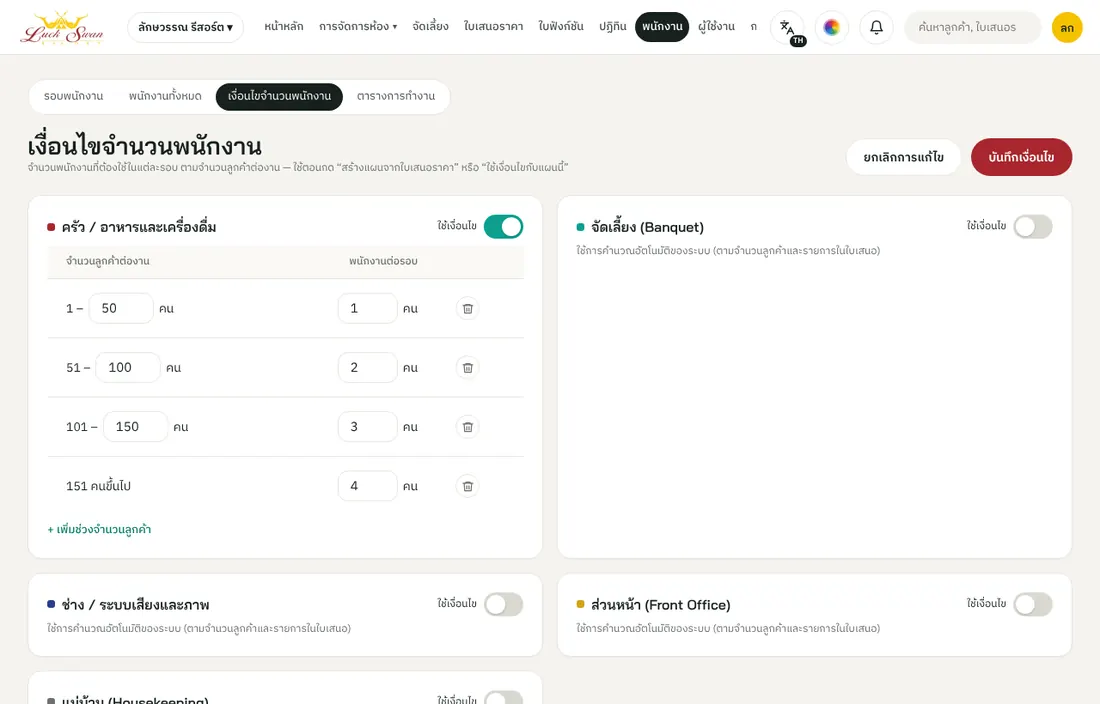
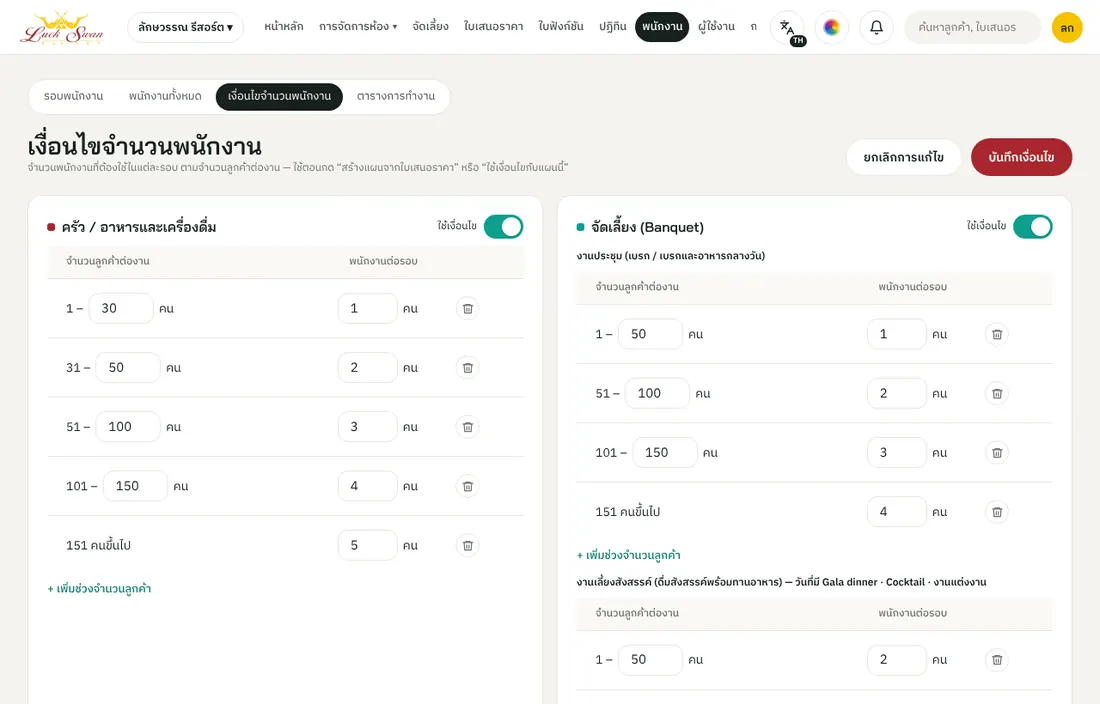
Manual 1.7 (Thai): function-sheet status, event room, automatic staffing
- Function sheets:
  - List badges show the sheet's state (รออนุมัติ · ถูกตีกลับ ·
    อนุมัติแล้ว), and the third tab is ยังไม่อนุมัติ.
  - The ห้องจัดงาน pop-up changes the room and layout; tips cover price,
    approval and schedule text.
- Staff shifts: the auto or by-hand pop-up after creating a plan, the
  จัดคนอัตโนมัติ button, staff of the event's property only, and what
  the automatic choice skips.
- Staffing rules: the owner's manpower tables (restaurant, banquet
  meeting and party, housekeeping by rooms), and that the numbers are
  per shift.
- Thai screenshots retaken: beo, beo-list (ทั้งหมด tab), staff-shifts,
  staff-assign, staff-rules. New: beo-venue, staff-auto (shots.js
  updated).
- English and Myanmar stay at 1.5.

Claude-Session: https://claude.ai/code/session_015bPeSMdisNsHViU4e5orFu

diff --git a/docs/manual/content.th.js b/docs/manual/content.th.js
@@ -14,7 +14,7 @@ window.MANUAL.th = {
     title: 'คู่มือการใช้งานระบบงานขาย',
     subtitle: 'ลักษวรรณ รีสอร์ท — ใบเสนอราคา ห้องประชุม ห้องพัก จัดเลี้ยง ใบฟังก์ชัน พนักงาน ตารางการทำงาน ใบลา และงานที่มอบหมาย',
     url: 'https://luckswan-sales.it-luckswan.workers.dev',
-    version: '1.6', updated: '14 พ.ย. 2569',
+    version: '1.7', updated: '17 พ.ย. 2569',
     intro: 'ระบบงานขายเป็นเว็บแอปที่ใช้ได้ทั้งคอมพิวเตอร์ iPad และมือถือ ทุกคนเห็นข้อมูลชุดเดียวกันแบบเรียลไทม์ เมนูที่แต่ละคนเห็นขึ้นกับบทบาทและสิทธิ์ที่ผู้ดูแลระบบกำหนดให้ คู่มือนี้อธิบายทุกหมวดตั้งแต่เข้าสู่ระบบจนถึงงานของแต่ละแผนก พร้อมรูปหน้าจอจริงประกอบทุกขั้นตอน'
   },
   groups: [
@@ -192,17 +192,18 @@ window.MANUAL.th = {
       id: 'beo', group: 'event', icon: 'list', title: 'ใบฟังก์ชัน (BEO)', who: 'ฝ่ายขาย · ผู้จัดการ · หัวหน้าแผนก · บัญชี (ดู)',
       intro: 'เมนู ใบฟังก์ชัน เป็นใบสั่งงานให้ทุกแผนก สร้างจากใบเสนอราคาที่อนุมัติจัดงานแล้ว แต่ละแผนกกดรับทราบได้ในระบบ',
       steps: [
-        'รายการด้านซ้ายแบ่งเป็น ใกล้ถึง · ทั้งหมด · ร่าง ป้ายบอกสถานะ เช่น “ครบทุกแผนก” “รอรับทราบ 2”',
-        'กด “+ สร้างจากใบเสนอ” แล้วเลือกใบเสนอราคา ระบบดึงห้อง อาหาร จำนวนคนให้อัตโนมัติ — รายการแสดงเฉพาะใบที่ผู้ดูแลระบบอนุมัติแล้ว และลูกค้ายืนยันการจองแล้ว (หรือกดปุ่ม “ใบฟังก์ชัน” ในกรอบสถานะของใบเสนอราคา)',
-        'ส่วนหัวแสดง วันงาน จำนวนยืนยัน (+5% สำรอง) ห้อง ผู้ติดต่อ และฝ่ายขาย',
+        'รายการด้านซ้ายแบ่งเป็น ใกล้ถึง · ทั้งหมด · ยังไม่อนุมัติ — ป้ายบอกสถานะปัจจุบันของใบ: “รออนุมัติ” (สีส้ม · ใบที่แก้ไขขึ้น “แก้ไข · รออนุมัติ”) · “ถูกตีกลับ” (สีแดง) · “อนุมัติแล้ว” (สีเขียว) · ใต้ชื่องานแสดงชื่อห้องจัดงานและจำนวนท่าน',
+        'กด “+ สร้างจากใบเสนอ” แล้วเลือกใบเสนอราคา ระบบดึงห้อง อาหาร จำนวนคนให้อัตโนมัติ — รายการแสดงเฉพาะใบเสนอราคาที่ “อนุมัติจัดงาน” แล้ว (หรือกดปุ่ม “ใบฟังก์ชัน” ในกรอบสถานะของใบเสนอราคา)',
+        'ส่วนหัวแสดง วันงาน จำนวนยืนยัน (+5% สำรอง) ห้องจัดงาน ผู้ติดต่อ และฝ่ายขาย',
+        'เปลี่ยนห้องจัดงาน: กดช่อง “ห้องจัดงาน ✏” › ป๊อปอัพให้เลือกห้อง (บอกจำนวนคนที่รองรับ) และรูปแบบการจัดห้อง Theatre · Classroom · U-shape · Banquet · Cocktail › “บันทึก” — มีกรอบแดงเตือนถ้าจำนวนท่านเกินความจุ · หัวใบขึ้น “(เปลี่ยนจากใบเสนอราคา)” การ์ดในรายการ รายละเอียดฟังก์ชัน และออกแบบผังงานเปลี่ยนตาม · กด “ใช้ตามใบเสนอราคา” เพื่อกลับไปห้องเดิม',
         'กรอบ “ประเภทผู้เข้าร่วมงาน และ ลักษณะงาน”: กดที่หัวกิ่งเพื่อกาง แล้วกดเลือกได้หลายข้อ เช่น เด็กนักเรียนมัธยม · อาจารย์ / Team building · คลาสสอน — หัวกิ่งแสดงสิ่งที่เลือก · ✏ แก้ไข / เพิ่ม / ลบตัวเลือกภายในกิ่ง (ผู้ดูแลระบบ ผู้จัดการฝ่ายขาย พนักงานขาย) บทบาทอื่นเห็นอย่างเดียว',
         'กำหนดการรายวัน: เวลา รายละเอียด สถานที่ และแผนกที่รับผิดชอบ (สลับ “วันที่ 1 / วันที่ 2”) — นำเข้าจากไฟล์ Excel ได้',
         'การ์ดแต่ละแผนก (ครัว จัดเลี้ยง ช่าง ส่วนหน้า แม่บ้าน บัญชี) แสดงรายการงานและสถานะ “รับทราบแล้ว / รอรับทราบ” กด “แก้ไข” เพื่อเพิ่มงานของแผนก — รายการในการ์ดกับช่องของแผนกนั้นใน “รายละเอียดฟังก์ชัน” เป็นข้อมูลชุดเดียวกัน แก้ที่ไหนก็ขึ้นทั้งสองที่',
         'ทุกครั้งที่แก้หลังส่งแล้ว ระบบนับ “แก้ไขครั้งที่ …” และส่งให้ผู้ดูแลระบบอนุมัติก่อนส่งแผนก',
         'ปุ่มด้านบน: รายละเอียดฟังก์ชัน · ใบสรุปสำหรับฝ่ายขาย · ออกแบบผังงาน (ผู้ดูแลระบบ ฝ่ายขาย แผนก F&B และแผนกจัดเลี้ยง) · แก้ไขปรับปรุง (ผู้ดูแลระบบ) · พิมพ์ / PDF'
       ],
-      shots: [{ img: 'beo', cap: 'ใบฟังก์ชัน: กำหนดการรายวันและการ์ดแต่ละแผนก' }, { img: 'beo-tags', cap: 'ประเภทผู้เข้าร่วมงาน และ ลักษณะงาน' }, { img: 'beo-list', cap: 'รายการใบฟังก์ชันพร้อมสถานะการรับทราบ' }],
-      tips: ['ใบเสนอราคาที่ยังไม่อนุมัติ หรือลูกค้ายังไม่ยืนยัน ออกใบฟังก์ชันไม่ได้ ระบบจะแจ้ง “ต้องให้ผู้ดูแลระบบอนุมัติใบเสนอราคาก่อน” หรือ “ออกใบฟังก์ชันได้หลังลูกค้ายืนยันการจอง” · ใบฟังก์ชันที่มีอยู่แล้วแก้ไขได้ตามปกติ', 'หัวหน้าแผนกควรกด “รับทราบ” ทุกครั้งที่มีใบใหม่หรือมีการแก้ไข', 'การเลือกประเภทผู้เข้าร่วมงานและลักษณะงานไม่ทำให้ใบต้องขออนุมัติการแก้ไขใหม่ · รายการตัวเลือกใช้ร่วมกันทุกใบ · สิ่งที่เลือกไปแสดงในช่อง “ประเภทงาน” ของรายละเอียดฟังก์ชัน']
+      shots: [{ img: 'beo', cap: 'ใบฟังก์ชัน: กำหนดการรายวันและการ์ดแต่ละแผนก' }, { img: 'beo-venue', cap: 'เปลี่ยนห้องจัดงานและรูปแบบการจัดห้อง' }, { img: 'beo-tags', cap: 'ประเภทผู้เข้าร่วมงาน และ ลักษณะงาน' }, { img: 'beo-list', cap: 'รายการใบฟังก์ชันพร้อมสถานะของแต่ละใบ' }],
+      tips: ['ใบเสนอราคาที่ยังไม่ถึงขั้น “อนุมัติจัดงาน” ออกใบฟังก์ชันไม่ได้ · ใบฟังก์ชันที่มีอยู่แล้วแก้ไขได้ตามปกติ', 'เปลี่ยนห้องจัดงานในใบฟังก์ชัน ราคาในใบเสนอราคาไม่เปลี่ยน · ถ้าพนักงานขายเปลี่ยน ใบต้องให้ผู้ดูแลระบบอนุมัติการแก้ไข · ช่องสถานที่ในกำหนดการที่พิมพ์ไว้แล้วไม่เปลี่ยนตาม แก้ในตารางเอง', 'หัวหน้าแผนกควรกด “รับทราบ” ทุกครั้งที่มีใบใหม่หรือมีการแก้ไข', 'การเลือกประเภทผู้เข้าร่วมงานและลักษณะงานไม่ทำให้ใบต้องขออนุมัติการแก้ไขใหม่ · รายการตัวเลือกใช้ร่วมกันทุกใบ · สิ่งที่เลือกไปแสดงในช่อง “ประเภทงาน” ของรายละเอียดฟังก์ชัน']
     },
     {
       id: 'plan', group: 'event', icon: 'grid', title: 'ออกแบบผังงานและแก้ไขปรับปรุงห้อง', who: 'ผู้ดูแลระบบ · ผู้จัดการฝ่ายขาย · พนักงานขาย · แผนก F&B · แผนกจัดเลี้ยง (หัวหน้าและพนักงาน)',
@@ -259,15 +260,17 @@ window.MANUAL.th = {
       intro: 'เมนู พนักงาน › รอบพนักงาน จัดคนเข้ารอบของแต่ละงาน ระบบคำนวณจำนวนคนที่ต้องใช้จากจำนวนลูกค้า',
       steps: [
         'เลือกงานด้านบน (กดชื่อใบเสนอราคา ▾) และเลือกวัน',
-        'ถ้ายังไม่มีแผน กด “สร้างแผนจากใบเสนอราคา” — ระบบสร้างรอบเฉพาะแผนกที่เปิด “ใช้เงื่อนไข” ในเงื่อนไขจำนวนพนักงาน จำนวนคนต่อรอบตามจำนวนลูกค้า (ก่อนกดจะเห็นสรุป เช่น ครัว/F&B 1 คน/รอบ) — “ใช้เงื่อนไขกับแผนนี้” คำนวณจำนวนของแผนที่มีอยู่ใหม่',
+        'ถ้ายังไม่มีแผน กด “สร้างแผนจากใบเสนอราคา” — ระบบสร้างรอบเฉพาะแผนกที่เปิด “ใช้เงื่อนไข” ในเงื่อนไขจำนวนพนักงาน จำนวนคนต่อรอบตามเงื่อนไข (ก่อนกดจะเห็นสรุป เช่น ครัว/F&B 4 คน/รอบ) — “ใช้เงื่อนไขกับแผนนี้” คำนวณจำนวนของแผนที่มีอยู่ใหม่',
+        'หลังสร้างแผน จะมีป๊อปอัพกลางจอถาม: “จัดคนอัตโนมัติ” = ระบบเลือกพนักงานของแต่ละแผนก เฉพาะโรงแรมของงานนั้น ลงทุกรอบให้ครบจำนวน · “จัดเอง” = รอบขึ้นสีแดง “ขาด … คน” ให้กดรอบหรือปุ่ม “มอบหมาย” เพื่อเลือกคนเอง',
+        'ปุ่ม “จัดคนอัตโนมัติ” (สีเขียว ด้านบน) กดเติมคนที่ยังขาดได้ทุกเมื่อ — คนที่เลือกไว้แล้วยังอยู่ ระบบเติมเฉพาะที่ขาด และแจ้งว่ายังขาดกี่คน',
         'แผนกที่ไม่ได้ตั้งเงื่อนไข เพิ่มรอบเองได้ที่ปุ่ม “+ เพิ่มรอบ”',
         'ดูกล่องสรุป: พนักงานที่ต้องใช้ · จัดรอบแล้ว · ขาดคน · ต่อรอบ',
-        'ไทม์ไลน์แต่ละแผนก: กดรอบ (รอบเช้า/รอบบ่าย) เพื่อกำหนดจำนวนที่ต้องใช้ เวลา และติ๊กเลือกพนักงาน แล้วกด “บันทึก”',
+        'ไทม์ไลน์แต่ละแผนก: กดรอบ (รอบเช้า/รอบบ่าย) เพื่อกำหนดจำนวนที่ต้องใช้ เวลา และติ๊กเลือกพนักงาน (แสดงเฉพาะพนักงานของแผนกนั้นในโรงแรมของงาน) แล้วกด “บันทึก”',
         'ต่อรอบ (QT): เลือก +1/+2/+3 ชม. หรือกำหนดเอง ใส่เหตุผล เลือกพนักงาน แล้วส่งขออนุมัติ',
         'ผู้มีสิทธิ์อนุมัติ กด อนุมัติ / ตีกลับ คำขอต่อรอบ'
       ],
-      shots: [{ img: 'staff-shifts', cap: 'รอบพนักงาน: สรุป ไทม์ไลน์ และต่อรอบ' }, { img: 'staff-assign', cap: 'จัดพนักงานเข้ารอบ' }],
-      tips: ['ชั่วโมงสะสมต่อสัปดาห์แสดงข้างชื่อ (เช่น 40 / 48 ชม.) ช่วยเลี่ยงการจัดเกินเวลา']
+      shots: [{ img: 'staff-auto', cap: 'หลังสร้างแผน: เลือกจัดคนอัตโนมัติ หรือจัดเอง' }, { img: 'staff-shifts', cap: 'รอบพนักงาน: สรุป ไทม์ไลน์ และต่อรอบ' }, { img: 'staff-assign', cap: 'จัดพนักงานเข้ารอบ' }],
+      tips: ['จัดคนอัตโนมัติไม่เลือก: คนที่ลงวันหยุดวันนั้นในตารางการทำงาน (DAY OFF · EXTRA · VC · WOP · CDO) · คนที่ติดรอบอื่นในวันเดียวกัน (รวมงานอื่น) · คนที่จะเกิน 48 ชม./สัปดาห์ — และเลือกคนที่ชั่วโมงสะสมน้อยก่อน', 'ระบบเลือกคนจาก “พนักงานทั้งหมด” — ตั้งสถานที่และแผนกของพนักงานแต่ละคนให้ถูก', 'ชั่วโมงสะสมต่อสัปดาห์แสดงข้างชื่อ (เช่น 40 / 48 ชม.) ช่วยเลี่ยงการจัดเกินเวลา']
     },
     {
       id: 'emps', group: 'people', icon: 'users', title: 'พนักงานทั้งหมด สถานที่ แผนก และตำแหน่ง', who: 'ผู้มีสิทธิ์จัดรอบพนักงาน (เพิ่ม/แก้ไข) · ทุกคนที่เห็นเมนู (ดู)',
@@ -285,15 +288,17 @@ window.MANUAL.th = {
     },
     {
       id: 'rules', group: 'people', icon: 'sliders', title: 'เงื่อนไขจำนวนพนักงาน', who: 'ผู้มีสิทธิ์จัดรอบพนักงาน',
-      intro: 'เมนู พนักงาน › เงื่อนไขจำนวนพนักงาน กำหนดว่าจำนวนลูกค้าเท่าไรใช้พนักงานกี่คนต่อรอบ',
+      intro: 'เมนู พนักงาน › เงื่อนไขจำนวนพนักงาน กำหนดว่าใช้พนักงานกี่คนต่อรอบ ตั้งต้นตามแผนงานกรอบอัตรากำลังคนของโรงแรม',
       steps: [
         'เปิดสวิตช์ “ใช้เงื่อนไข” ของแผนกที่ต้องการ (ปิด = ไม่สร้างรอบให้แผนกนั้นตอนสร้างแผน เพิ่มรอบเองภายหลังได้)',
-        'กำหนดช่วงจำนวนลูกค้า เช่น 1–50 คน = 1 คน, 51–100 คน = 2 คน',
-        'กด “+ เพิ่มช่วงจำนวนลูกค้า” หรือ 🗑 ลบช่วง แล้วกดบันทึก',
+        'ครัว / อาหารและเครื่องดื่ม (ตามตารางห้องอาหาร): 1–30 คน = 1 · 31–50 = 2 · 51–100 = 3 · 101–150 = 4 · 151 ขึ้นไป = 5',
+        'จัดเลี้ยง มี 2 ตาราง: งานประชุม (เบรก / เบรกและอาหารกลางวัน) 1–50 = 1 · 51–100 = 2 · 101–150 = 3 · 151+ = 4 และงานเลี้ยงสังสรรค์ 1–50 = 2 · 51–100 = 3 · 101–150 = 4 · 151+ = 5 — ระบบใช้ตารางงานเลี้ยงสังสรรค์เองในวันที่มี Gala dinner · Cocktail · งานแต่งงาน',
+        'แม่บ้าน คิดจากจำนวนห้องพักในใบเสนอราคา: 1–16 ห้อง = 1 · 17–36 = 2 · 37–53 = 3 · 54–70 = 4 · 71 ขึ้นไป = 5',
+        'แก้ตัวเลขในช่องได้เอง กด “+ เพิ่มช่วง…” หรือ 🗑 ลบช่วง แล้วกด “บันทึกเงื่อนไข”',
         'ใช้ตอน “สร้างแผนจากใบเสนอราคา” หรือ “ใช้เงื่อนไขกับแผนนี้”'
       ],
-      shots: [{ img: 'staff-rules', cap: 'เงื่อนไขจำนวนพนักงานต่อรอบ' }],
-      tips: []
+      shots: [{ img: 'staff-rules', cap: 'เงื่อนไขจำนวนพนักงานต่อรอบ ตามแผนอัตรากำลังคน' }],
+      tips: ['ตัวเลขเป็นจำนวนคนต่อรอบ — ครัวและจัดเลี้ยงมีรอบเช้าและรอบบ่าย ถ้าต้องการจำนวนทั้งวัน ให้ใส่ครึ่งหนึ่ง', 'ช่าง/AV และส่วนหน้ายังปิดเงื่อนไขไว้ เพิ่มรอบเองได้']
     },
     {
       id: 'roster', group: 'people', icon: 'cal', title: 'ตารางการทำงาน (ตารางกะรายเดือน)', who: 'หัวหน้าแผนก (แผนกตัวเอง) · ฝ่ายบุคคล · ผู้ดูแลระบบ (แก้ไข) · ผู้ที่เห็นเมนูพนักงาน (ดู)',
@@ -481,6 +486,7 @@ window.MANUAL.th = {
     }
   ],
   changelog: [
+    { v: '1.7', date: '17 พ.ย. 2569', text: 'ใบฟังก์ชัน: ป้ายในรายการแสดงสถานะของใบ (รออนุมัติ · ถูกตีกลับ · อนุมัติแล้ว) แท็บ “ยังไม่อนุมัติ” และเปลี่ยนห้องจัดงาน/รูปแบบการจัดห้องจากป๊อปอัพ · รอบพนักงาน: เงื่อนไขตามแผนอัตรากำลังคน (จัดเลี้ยงแยกงานประชุม/งานเลี้ยงสังสรรค์ แม่บ้านคิดตามจำนวนห้องพัก) ป๊อปอัพเลือกจัดคนอัตโนมัติหรือจัดเอง ปุ่ม “จัดคนอัตโนมัติ” และรายชื่อเฉพาะพนักงานของโรงแรมนั้น' },
     { v: '1.6', date: '14 พ.ย. 2569', text: 'ใบเสนอราคา: ขั้นตอนใหม่ ร่าง › รออนุมัติ (สีส้ม) › รอยืนยันการจอง › อนุมัติจัดงาน (ผู้ดูแลระบบอนุมัติหลังลูกค้ายืนยัน) › อนุมัติฟังก์ชั่น · พิมพ์ใบที่เกินหน้าเล็กน้อยให้อยู่หน้าเดียว · แจ้งเตือนเข้ากลุ่ม LINE และปุ่มทดสอบแจ้งเตือน LINE · รายละเอียดฟังก์ชัน: Function No. อัตโนมัติ ลายเซ็นในช่อง “ออกโดย” รูปป้ายบนเวที PDF แนวนอน · ใบสรุปฝ่ายขาย: อภินันทนาการไม่นำมาคิดรวม · ห้องพัก: เพิ่ม/แก้ประเภทห้อง แก้รูปห้อง และบูติกราคาตามช่วงวันที่ · ผู้ใช้งาน: อัปโหลดลายเซ็น และสิทธิ์สร้างใบเสนอราคาเปิดหมวดงานขาย' },
     { v: '1.5', date: '10 พ.ย. 2569', text: 'ใบเสนอราคา: สถานะ “รออนุมัติ” แทน “ส่งแล้ว” — ส่งขออนุมัติ › ผู้ดูแลระบบอนุมัติหรือตีกลับ › ส่งลูกค้าและยืนยันการจองได้หลังอนุมัติ › ออกใบฟังก์ชันหลังลูกค้ายืนยัน · ออกแบบผังงาน: บันทึกเมื่อกด “บันทึกผังงาน” (Ctrl+S) ยกเลิกการแก้ไขได้ ถามก่อนออกจากหน้า และกู้คืนผังที่ยังไม่บันทึก · รายละเอียดฟังก์ชัน: แผนกต้อนรับแยกช่องตามห้องพักแต่ละรายการ' },
     { v: '1.4', date: '5 พ.ย. 2569', text: 'ออกแบบผังงาน: แผงจำนวนโต๊ะ / แถว คำนวณจากผู้เข้าร่วมแล้วปรับเลขเองได้ · เลือกห้องเมื่องานใช้หลายห้อง · กล่องข้อความ · ที่จับหมุนและปุ่มหมุน 15°/45°/90°/180° · อัปโหลดรูปผังเป็นพื้นหลังหรือใช้รูปเป็นผังงาน · รายละเอียดฟังก์ชัน: ปุ่มสำหรับเซลล์ / สำหรับ Operation · ปุ่มบันทึกเป็น PNG / JPG / PDF · การ์ดแผนกกับใบเป็นข้อมูลชุดเดียวกัน · ประเภทงานจากแท็ก · ใบเสนอราคา: คอลัมน์ผู้รับผิดชอบ · รอบพนักงาน: สร้างแผนเฉพาะแผนกที่ตั้งเงื่อนไข · บทบาทดูอย่างเดียว (พนักงานขายย่อย) · สำรองข้อมูลและกู้บัญชีผู้ดูแลผ่าน GitHub' },

diff --git a/docs/manual/tools/shots.js b/docs/manual/tools/shots.js
@@ -43,8 +43,8 @@ const W = ms => new Promise(r => setTimeout(r, ms));
     for (const [f, v] of [['title', 'สัมมนาประจำปี 2027'], ['client', 'บจก. ตัวอย่าง จำกัด']]) { try { await p.fill(`[data-f=${f}]`, v); await p.dispatchEvent(`[data-f=${f}]`, 'input'); await p.dispatchEvent(`[data-f=${f}]`, 'change'); } catch (e) { errs.push('fill ' + f); } }
     await shot('wiz1');
     for (let i = 2; i <= 5; i++) { await click('[data-act=wizNext]'); await W(300); const e = await p.$('[data-act=wizSel]'); if (e && await e.isVisible()) { await e.click().catch(() => {}); await W(250); await close(); } await shot('wiz' + i); }
-    await go('#/beo'); await shot('beo-list');
-    await go('#/beo/FS-2611-018'); await shot('beo'); await click('[data-act=btFold][data-k=guests]'); await click('[data-act=btFold][data-k=kinds]'); await click('[data-act=btPick][data-k=guests][data-v=g4]'); await click('[data-act=btPick][data-k=kinds][data-v=k6]'); await p.evaluate(() => document.querySelector('.bt-grid').scrollIntoView({ block: 'center' })); await shot('beo-tags');
+    await go('#/beo'); await click('[data-act=beoF][data-v=all]'); await shot('beo-list'); await click('[data-act=beoF][data-v=soon]');
+    await go('#/beo/FS-2611-018'); await shot('beo'); await click('[data-act=beoVenue]'); await shot('beo-venue'); await close(); await click('[data-act=btFold][data-k=guests]'); await click('[data-act=btFold][data-k=kinds]'); await click('[data-act=btPick][data-k=guests][data-v=g4]'); await click('[data-act=btPick][data-k=kinds][data-v=k6]'); await p.evaluate(() => document.querySelector('.bt-grid').scrollIntoView({ block: 'center' })); await shot('beo-tags');
     await go('#/plan/FS-2611-018/1'); await click('[data-act=fpAuto]'); await shot('plan'); await click('[data-act=fpSave]');
     // a text box, selected: rotate handle and the 15 / 45 / 90 / 180 buttons
     await click('[data-act=fpAdd][data-v=text]'); await p.keyboard.type({ th: 'ทางเข้า VIP', en: 'VIP entrance', my: 'VIP ဝင်ပေါက်' }[L]); await W(700); await click('[data-act=fpRot][data-v="45"]');
@@ -65,7 +65,10 @@ const W = ms => new Promise(r => setTimeout(r, ms));
     await p.evaluate(() => { const r = document.querySelector('.fnf-t th.st'); if (r) { const tr = r.closest('tr'); (tr.previousElementSibling || tr).scrollIntoView({ block: 'start' }); window.scrollBy(0, -20); } }); await shot('fn-front'); await click('[data-act=fnSave]'); await shot('fn-save'); await close();
     await go('#/ss/FS-2611-018'); await click('[data-act=ssTab][data-v=form]'); await shot('ss');
     await go('#/cal'); await click('[data-act=calNav][data-v="1"]'); await shot('cal-month'); await click('[data-act=calView][data-v=week]'); await shot('cal-week'); await click('[data-act=calView][data-v=pipe]'); await shot('cal-pipe');
-    await go('#/staff'); await click('[data-act=stTab][data-v=shifts]'); await shot('staff-shifts'); await click('[data-act=stAssign]'); await shot('staff-assign'); await close();
+    await go('#/staff'); await click('[data-act=stTab][data-v=shifts]');
+    // a new plan → the pop-up (auto or by hand) → filled automatically
+    await p.evaluate(() => { delete Store.db.staff[App.state.ui.staffQ]; App.state.ui.staff = null; App.render(); }); await W(300);
+    await click('[data-act=stGen]'); await shot('staff-auto'); await click('[data-act=stAutoGo]'); await close(); await shot('staff-shifts'); await click('[data-act=stAssign]'); await shot('staff-assign'); await close();
     await click('[data-act=stTab][data-v=emps]'); await shot('staff-emps'); await click('[data-act=empEdit]'); await shot('staff-empform');
     await click('#emSiteBtn'); await click('#emDeptBtn'); await click('#emPosBtn'); await shot('staff-plus', true); await close();
     await click('[data-act=empImport]'); await shot('staff-import'); await close();
